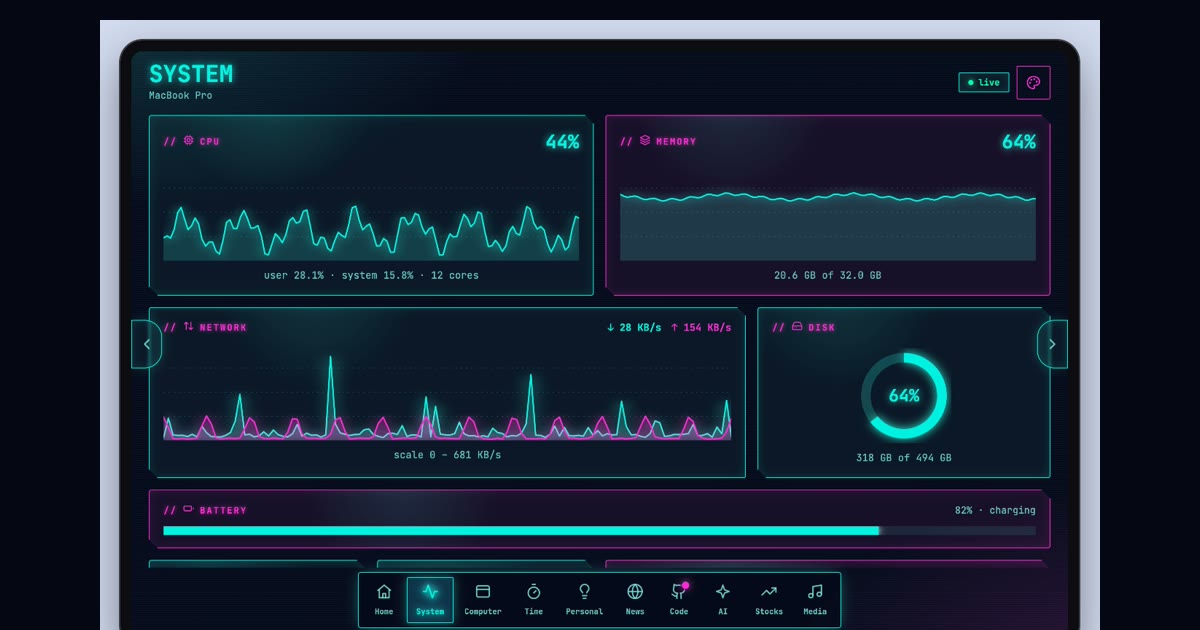
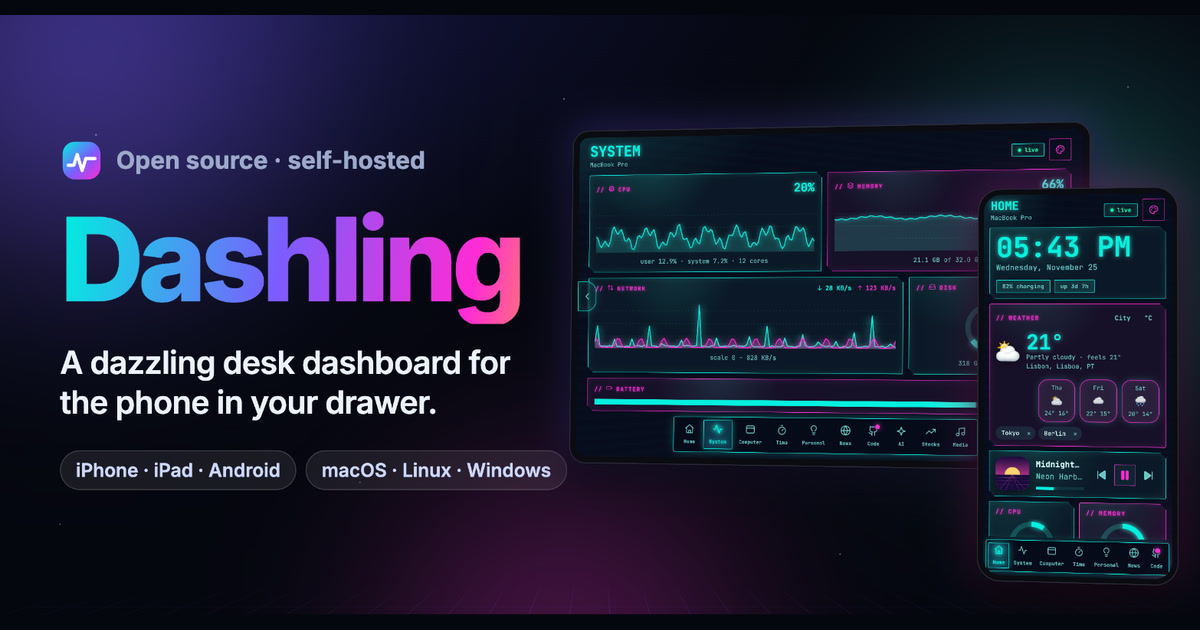
Add the social preview image and card, and use it for website link previews

diff --git a/scripts/demo/social.html b/scripts/demo/social.html
@@ -1,0 +1,60 @@
+<!doctype html>
+<meta charset="utf-8">
+<title>Dashling social card</title>
+<!-- The repo's social preview / link-preview image (1280x640). Run `npm run demo`, open /_social, capture the 1280x640 card
+     (see CONTRIBUTING.md > Screenshots and GIFs). The panels in it are the real app on the fictional demo data. -->
+<style>
+  @font-face { font-family: "Inter"; src: url(/fonts/inter-var.woff2) format("woff2"); font-weight: 100 900; }
+  html, body { margin: 0; background: #05060f; }
+  .card { position: relative; width: 1280px; height: 640px; overflow: hidden; font-family: "Inter", system-ui, sans-serif; color: #eef2ff;
+    background: radial-gradient(900px 520px at 20% -10%, #14143f 0%, #05060f 70%); }
+  .blob { position: absolute; border-radius: 50%; filter: blur(80px); }
+  .b1 { width: 620px; height: 620px; left: -160px; top: -200px; background: radial-gradient(circle at 40% 40%, #7c5cff, transparent 65%); opacity: .55; }
+  .b2 { width: 620px; height: 620px; right: -160px; top: -60px; background: radial-gradient(circle, #00f0e0, transparent 65%); opacity: .32; }
+  .b3 { width: 640px; height: 520px; left: 280px; bottom: -300px; background: radial-gradient(circle, #ff2bd6, transparent 65%); opacity: .38; }
+  .grid { position: absolute; left: -10%; right: -10%; bottom: -6%; height: 44%; opacity: .26; transform: perspective(420px) rotateX(62deg); transform-origin: 50% 100%;
+    background-image: linear-gradient(#7c5cff 1px, transparent 1px), linear-gradient(90deg, #7c5cff 1px, transparent 1px); background-size: 52px 52px; mask-image: linear-gradient(to top, #000 10%, transparent 85%); }
+  .stars { position: absolute; inset: 0; opacity: .6; background-image: radial-gradient(1.4px 1.4px at 8% 20%, #fff, transparent), radial-gradient(1px 1px at 30% 78%, #cfe, transparent), radial-gradient(1.3px 1.3px at 47% 14%, #fff, transparent),
+    radial-gradient(1px 1px at 58% 60%, #fce, transparent), radial-gradient(1.2px 1.2px at 94% 12%, #fff, transparent), radial-gradient(1px 1px at 5% 85%, #fff, transparent), radial-gradient(1.2px 1.2px at 70% 90%, #cef, transparent); }
+  .text { position: absolute; left: 64px; top: 0; bottom: 0; width: 560px; display: flex; flex-direction: column; justify-content: center; }
+  .logo { display: flex; align-items: center; gap: 14px; margin-bottom: 22px; font-weight: 700; font-size: 26px; color: #9ea9cc; }
+  .logo svg { width: 46px; height: 46px; }
+  h1 { margin: 0; font-size: 124px; line-height: .98; letter-spacing: -.05em; font-weight: 800; background: linear-gradient(100deg, #00f0e0, #7c5cff 42%, #ff2bd6 78%, #ffb224); -webkit-background-clip: text; background-clip: text; color: transparent; padding-bottom: 8px; }
+  .tag { margin: 20px 0 30px; max-width: 500px; font-size: 34px; line-height: 1.25; font-weight: 600; letter-spacing: -.02em; color: #eef2ff; }
+  .chips { display: flex; flex-wrap: wrap; gap: 10px; }
+  .chip { padding: 8px 16px; border-radius: 999px; font-size: 20px; font-weight: 600; color: #cfd8ff; background: rgb(255 255 255 / .08); border: 1px solid rgb(255 255 255 / .16); }
+  .devs { position: absolute; left: 596px; top: 0; width: 664px; height: 640px; perspective: 1700px; }
+  .devs-in { position: absolute; inset: 0; transform: rotateY(-9deg) rotateX(2deg); transform-style: preserve-3d; }
+  .device { position: absolute; transform-origin: 0 0; background: #07070c; overflow: hidden; box-shadow: 0 0 0 2px #2c2c38, 0 40px 80px rgb(0 0 0 / .65), 0 0 90px rgb(124 92 255 / .35); }
+  .device iframe { display: block; border: 0; }
+  .tablet { border: 14px solid #0b0b12; border-radius: 34px; left: 0; top: 118px; transform: scale(.5); }
+  .tablet iframe { border-radius: 20px; }
+  .phone { border: 11px solid #0b0b12; border-radius: 46px; left: 448px; top: 188px; transform: scale(.5); box-shadow: 0 0 0 2px #2c2c38, 0 40px 80px rgb(0 0 0 / .7), 0 0 90px rgb(255 43 214 / .3); }
+  .phone iframe { border-radius: 36px; }
+</style>
+<div class="card" id="card">
+  <i class="blob b1"></i><i class="blob b2"></i><i class="blob b3"></i><i class="stars"></i><i class="grid"></i>
+  <div class="text">
+    <div class="logo"><svg viewBox="0 0 32 32"><defs><linearGradient id="g" x1="0" y1="0" x2="1" y2="1"><stop offset="0" stop-color="#00f0e0"/><stop offset=".55" stop-color="#7c5cff"/><stop offset="1" stop-color="#ff2bd6"/></linearGradient></defs><rect x="2" y="2" width="28" height="28" rx="9" fill="url(#g)"/><path d="M6 19.5h4.2l2.6-8 3.6 12 2.8-9H26" fill="none" stroke="#fff" stroke-width="2.4" stroke-linecap="round" stroke-linejoin="round"/></svg>Open source · self-hosted</div>
+    <h1>Dashling</h1>
+    <p class="tag">A dazzling desk dashboard for the phone in your drawer.</p>
+    <div class="chips"><span class="chip">iPhone · iPad · Android</span><span class="chip">macOS · Linux · Windows</span></div>
+  </div>
+  <div class="devs"><div class="devs-in">
+    <div class="device tablet"><iframe id="t" width="1100" height="700" title="Dashling on a tablet"></iframe></div>
+    <div class="device phone"><iframe id="p" width="390" height="800" title="Dashling on a phone"></iframe></div>
+  </div></div>
+</div>
+<script>
+  (async () => {
+    const { layout } = await (await fetch('/api/layout', { headers: { Authorization: 'Bearer demo' } })).json();
+    const idx = (id) => Math.max(0, layout.pages.findIndex((p) => p.id === id));
+    localStorage.setItem('dl_token', 'demo-token'); localStorage.setItem('dl_theme', 'cyber');
+    for (const [el, page] of [['t', 'system'], ['p', 'home']]) {        // one at a time: they share localStorage
+      localStorage.setItem('dl_page', String(idx(page)));
+      const f = document.getElementById(el);
+      await new Promise((ok) => { f.onload = ok; f.src = '/'; }); await new Promise((r) => setTimeout(r, 900));
+    }
+    document.title = 'ready';
+  })();
+</script>

diff --git a/CONTRIBUTING.md b/CONTRIBUTING.md
@@ -58,6 +58,11 @@ The README images are taken from the demo, never from a real machine. To refresh
 
 Keep each image under about 250 KB and the GIF under about 2 MB.
 
+The **social preview** (`docs/img/social-preview.jpg`, 1280x640, the picture GitHub shows when the repo link is shared) and the website's link-preview
+image (`site/og.jpg`) come from `/_social`: open it with the demo running, capture the 1280x640 card, and scale it with `ffmpeg`
+(`scale=1280:640`, and `scale=1200:600,pad=1200:630:0:15:color=0x05060f` for `og.jpg`). GitHub has no API for the social preview, so upload it by hand
+under the repo's Settings > General > Social preview.
+
 ## Run the checks
 
 ```bash
